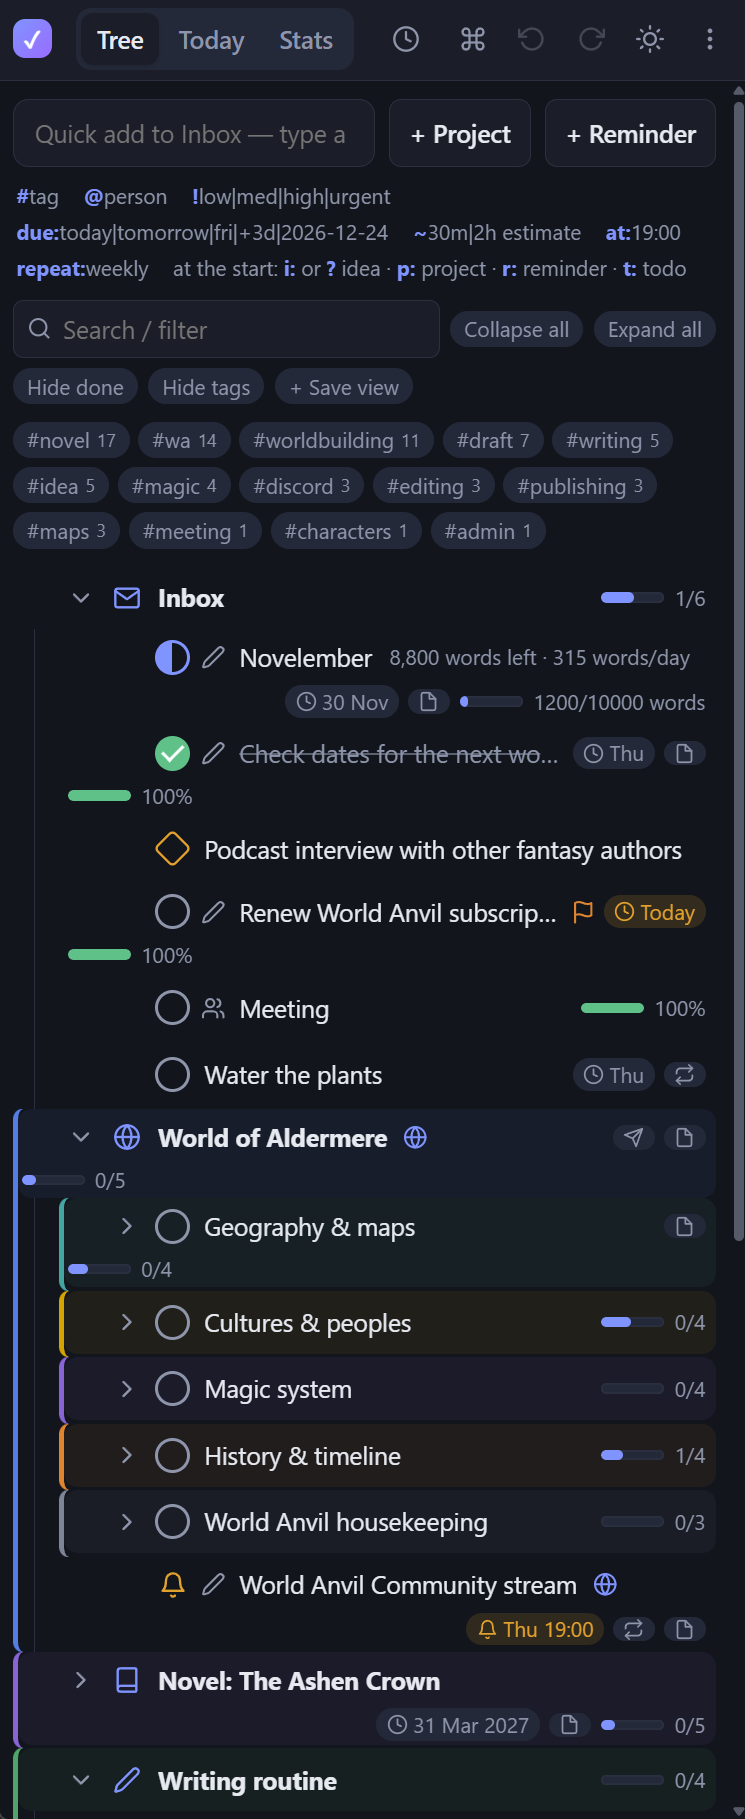
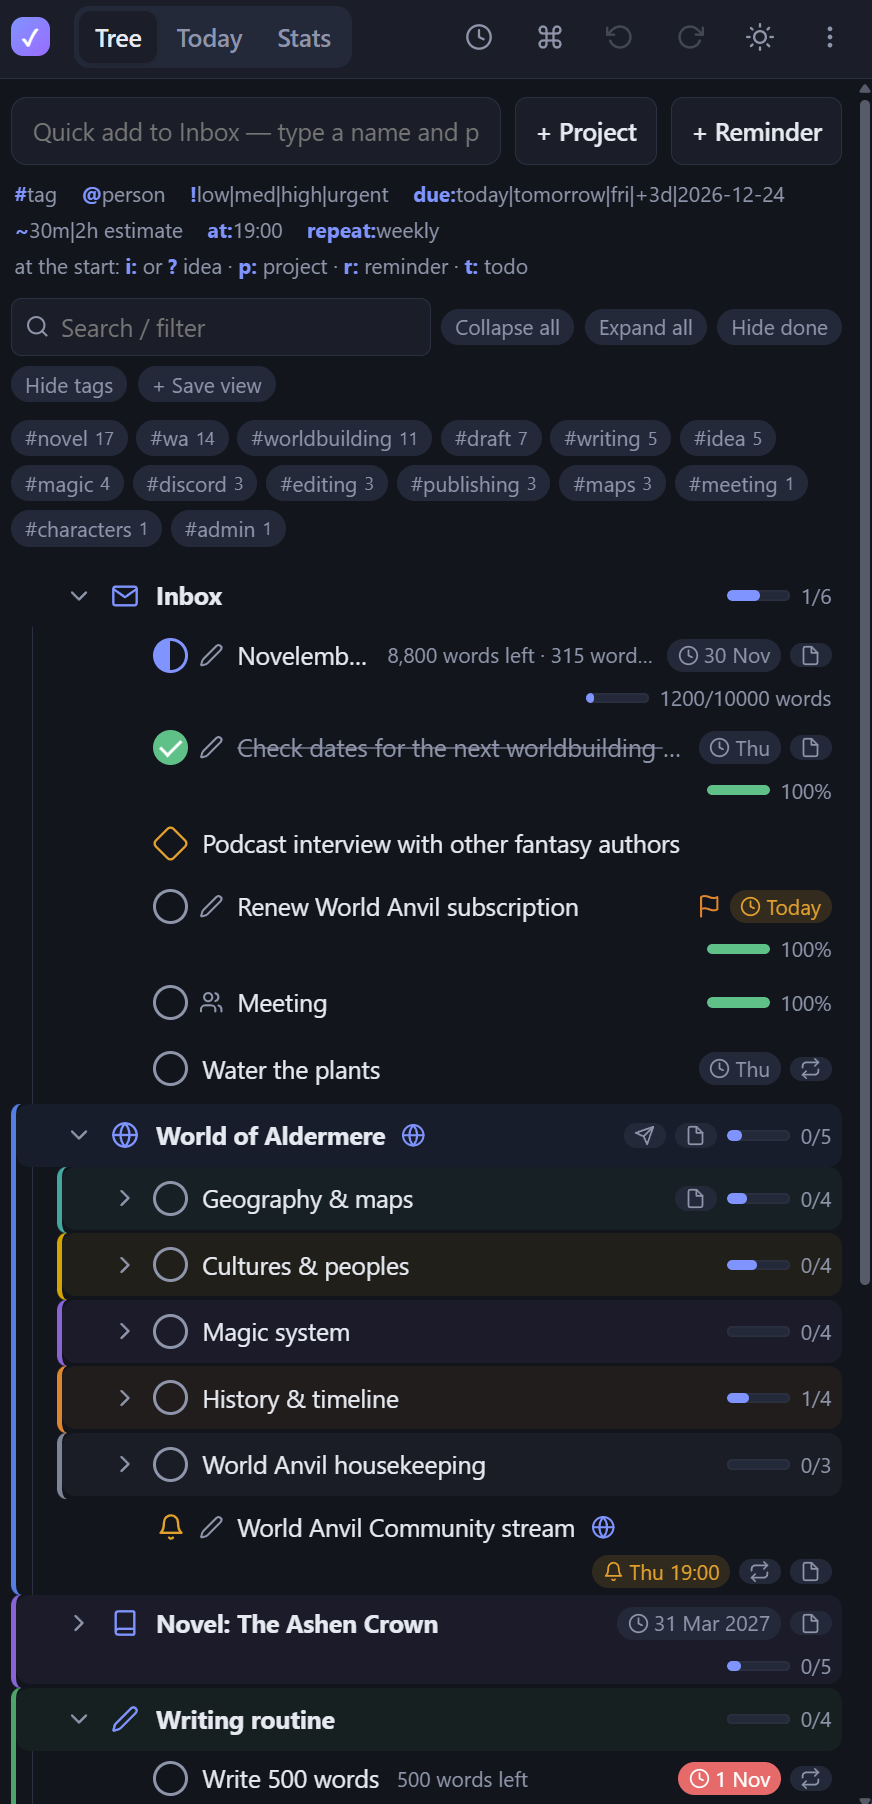
Narrow rows: second line aligned right

diff --git a/app/web/index.html b/app/web/index.html
@@ -366,9 +366,8 @@ kbd{background:var(--hover);border:1px solid var(--line);border-bottom-width:2px
   .children{padding-left:14px!important}
   #tagbar{flex-wrap:wrap}
   /* the name keeps at least about half the row; badges and progress that do not fit go to a second line */
-  .row{flex-wrap:wrap;row-gap:2px}
+  .row{flex-wrap:wrap;row-gap:2px;justify-content:flex-end}
   .row>.namewrap{min-width:55%}
-  .row>.badges{margin-left:auto}
 }
 /* narrow with a mouse: the hidden + and ⋯ buttons take no room, except on the selected row */
 @media (max-width:700px) and (pointer:fine){.row .add,.row .more{display:none}.row.sel .add,.row.sel .more{display:grid}}
